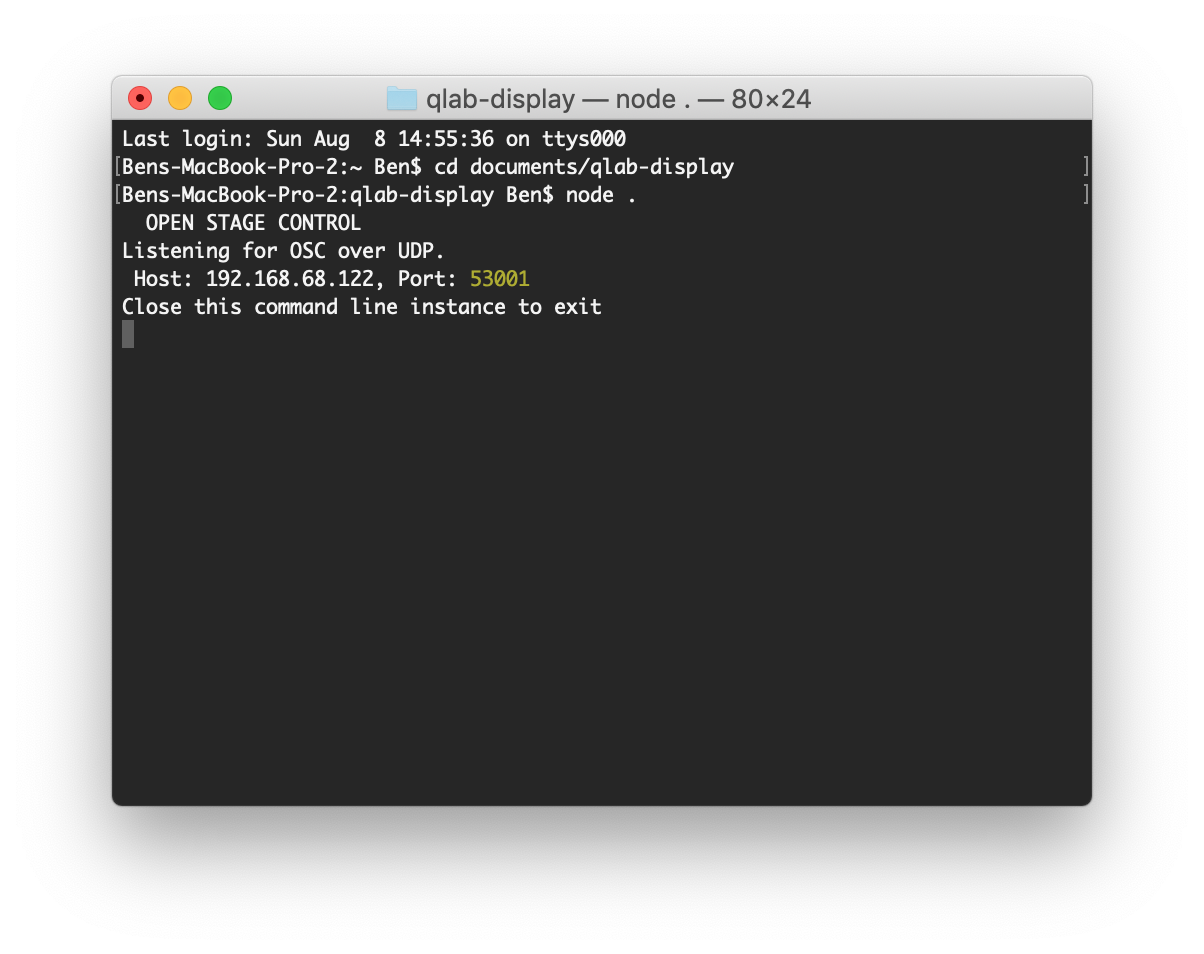
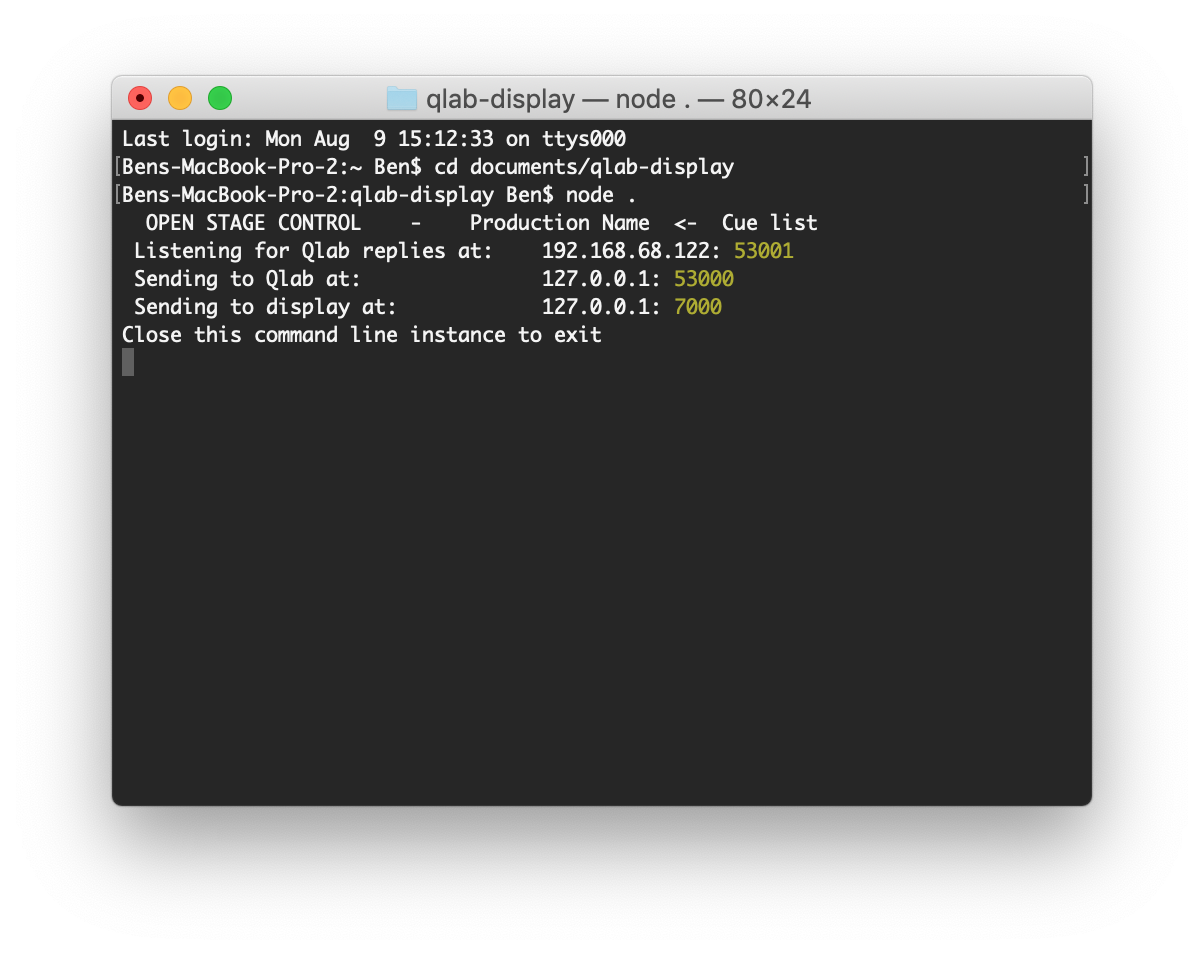
Added config file for setting variables

Changed region(s): [[0.0922, 0.2128, 0.6761, 0.3952], [0.338, 0.1216, 0.3995, 0.152], [0.2151, 0.1216, 0.2458, 0.152]]

diff --git a/qlab-mon-open-stage-control.js b/qlab-mon-open-stage-control.js
@@ -2,10 +2,13 @@
  * @description Qlab Cue list Monitoring with Open Stage Control
  * @author Ben Smith
  * @link bensmithsound.uk
- * @version 1.1.0
+ * @version 1.2.0
  * @about Monitoring the next cue in a specific cue list using Open Stage Control
  * 
  * @changelog
+ *   v1.2.0  - implement config.json to set variables
+ *           - update commenting to make script easier to read
+ *           - update logging to give more useful info
  *   v1.1.0  - add a heartbeat display in Open Sound Control to show a successful link to Qlab
  *   v1.0.0  - add ability to set variables from command line
  *           - streamline interpretation of Qlab replies
@@ -17,26 +20,28 @@ const osc = require("osc"); // for working with OSC messages
 const yargs = require("yargs"); // for optional setting variables by command line
 
 
-/*************
- * VARIABLES *
- *************/
+/*******************************************
+ ***************  VARIABLES  ***************
+ *******************************************/
 
-var cueListNumber = "CLICK";
-var qlabIP = "127.0.0.1";
-var qlabPort = 53000;
-var openStageControlIP = "127.0.0.1";
-var openStageControlPort = 7000;
-const openStageControlQNum = "/next/number";
-const openStageControlQName = "/next/name";
-const openStageControlHeartbeat = "/qlab/connected";
+const config = require('./config.json');
+
+var cueListNumber = config.cuelistnumber;
+var qlabIP = config.qlab.ip;
+var qlabPort = config.qlab.port;
+var openStageControlIP = config.display.ip;
+var openStageControlPort = config.display.openstagecontrol.port;
+const openStageControlQNum = config.display.openstagecontrol.number;
+const openStageControlQName = config.display.openstagecontrol.name;
+const openStageControlHeartbeat = config.display.openstagecontrol.heartbeat;
 
 var cueNumber = "";
 var cueName = "";
 
 
-/**********************************************
- * SET VARIABLES FROM COMMAND LINE (OPTIONAL) *
- **********************************************/
+/******************************************************************
+ **********  SET VARIABLES FROM COMMAND LINE (OPTIONAL)  **********
+ ******************************************************************/
 
 const argv = yargs
   .option('cuelist', {
@@ -89,9 +94,9 @@ if (argv.displayport) {
 };
 
 
-/*************
- * FUNCTIONS *
- *************/
+/*******************************************
+ ***************  FUNCTIONS  ***************
+ *******************************************/
 
 // Send an OSC message to Qlab
 function sendToQlab (theAddress, theArgs = "") {
@@ -140,9 +145,9 @@ function getCueListPlayhead () {
 };
 
 
-/****************
- * MAIN ROUTINE *
- ****************/
+/**********************************************
+ ***************  MAIN ROUTINE  ***************
+ **********************************************/
 
 var getIPAddresses = function () {
   var os = require("os"),
@@ -183,10 +188,12 @@ udpPort.on("ready", function () {
 qlabReplies.on("ready", function() {
   var ipAddresses = getIPAddresses();
 
-  console.log("  OPEN STAGE CONTROL\nListening for OSC over UDP.");
+  console.log("  OPEN STAGE CONTROL    -    " + config.production.name + "  <-  " + config.production.cuelistname);
   ipAddresses.forEach(function (address) {
-    console.log(" Host:", address + ", Port:", qlabReplies.options.localPort);
+    console.log(" Listening for Qlab replies at:    " + address + ":", qlabReplies.options.localPort);
   });
+  console.log(" Sending to Qlab at:               " + qlabIP + ":", qlabPort);
+  console.log(" Sending to display at:            " + config.display.ip + ":", config.display.openstagecontrol.port);
   console.log("Close this command line instance to exit")
 });
 

diff --git a/qlab-mon-streamdeck.js b/qlab-mon-streamdeck.js
@@ -2,10 +2,13 @@
  * @description Qlab Cue list Monitoring with Streamdeck
  * @author Ben Smith
  * @link bensmithsound.uk
- * @version 1.0.0
+ * @version 1.1.0
  * @about Monitoring the next cue in a specific cue list on a Streamdeck
  * 
  * @changelog
+ *   v1.1.0  - implement config.json to set variables
+ *           - update commenting to make script easier to read
+ *           - update logging to give more useful info
  *   v1.0.0  - add ability to set variables from command line
  *           - streamline interpretation of Qlab replies
  *           - remove logging of replies
@@ -16,26 +19,28 @@ const osc = require("osc"); // for working with OSC messages
 const yargs = require("yargs"); // for optional setting variables by command line
 
 
-/*************
- * VARIABLES *
- *************/
+/*******************************************
+ ***************  VARIABLES  ***************
+ *******************************************/
 
-var cueListNumber = "CLICK";
-var qlabIP = "127.0.0.1";
-var qlabPort = 53000;
-var companionIP = "127.0.0.1";
-var companionPort = 12321;
-var companionPage = 19;
-var companionQNumButton = 15;
-var companionQNameButton = 16;
+const config = require('./config.json');
+
+var cueListNumber = config.cuelistnumber;
+var qlabIP = config.qlab.ip;
+var qlabPort = config.qlab.port;
+var companionIP = config.display.ip;
+var companionPort = config.display.streamdeck.port;
+var companionPage = config.display.streamdeck.page;
+var companionQNumButton = config.display.streamdeck.numberbutton;
+var companionQNameButton = config.display.streamdeck.namebutton;
 
 var cueNumber = "";
 var cueName = "";
 
 
-/**********************************************
- * SET VARIABLES FROM COMMAND LINE (OPTIONAL) *
- **********************************************/
+/******************************************************************
+ **********  SET VARIABLES FROM COMMAND LINE (OPTIONAL)  **********
+ ******************************************************************/
 
  const argv = yargs
  .option('cuelist', {
@@ -115,9 +120,9 @@ if (argv.cuenamebutton) {
 };
 
 
-/*************
- * FUNCTIONS *
- *************/
+/*******************************************
+ ***************  FUNCTIONS  ***************
+ *******************************************/
 
 // Send an OSC message to Qlab
 function sendToQlab (theAddress, theArgs = "") {
@@ -158,9 +163,10 @@ function getCueListPlayhead () {
   setTimeout(getCueListPlayhead, 300);
 };
 
-/****************
- * MAIN ROUTINE *
- ****************/
+
+/**********************************************
+ ***************  MAIN ROUTINE  ***************
+ **********************************************/
 
 var getIPAddresses = function () {
   var os = require("os"),
@@ -201,10 +207,12 @@ udpPort.on("ready", function () {
 qlabReplies.on("ready", function() {
   var ipAddresses = getIPAddresses();
 
-  console.log("  STREAMDECK\nListening for OSC over UDP.");
+  console.log("  STREAMDECK    -    " + config.production.name + "  <-  " + config.production.cuelistname);
   ipAddresses.forEach(function (address) {
-    console.log(" Host:", address + ", Port:", qlabReplies.options.localPort);
+    console.log(" Listening for Qlab replies at:    " + address + ":", qlabReplies.options.localPort);
   });
+  console.log(" Sending to Qlab at:               " + qlabIP + ":", qlabPort);
+  console.log(" Sending to display at:            " + config.display.ip + ":", config.display.streamdeck.port);
   console.log("Close this command line instance to exit")
 });
 

diff --git a/qlab-mon.js b/qlab-mon.js
@@ -2,10 +2,13 @@
  * @description Qlab Cue list Monitoring
  * @author Ben Smith
  * @link bensmithsound.uk
- * @version 1.0.0
+ * @version 1.1.0
  * @about Monitoring the next cue in a specific cue list in terminal
  * 
  * @changelog
+ *   v1.1.0  - implement config.json to set variables
+ *           - update commenting to make script easier to read
+ *           - update logging to give more useful info
  *   v1.0.0  - add ability to set variables from command line
  *           - streamline interpretation of Qlab replies
  */
@@ -15,21 +18,23 @@ const osc = require("osc");
 const yargs = require("yargs"); // for optional setting variables by command line
 
 
-/*************
- * VARIABLES *
- *************/
+/*******************************************
+ ***************  VARIABLES  ***************
+ *******************************************/
 
-var cueListNumber = "CLICK";
-var qlabIP = "127.0.0.1";
-var qlabPort = 53000;
+const config = require('./config.json');
+
+var cueListNumber = config.cuelistnumber;
+var qlabIP = config.qlab.ip;
+var qlabPort = config.qlab.port;
 
 var cueNumber = "";
 var cueName = "";
 
 
-/**********************************************
- * SET VARIABLES FROM COMMAND LINE (OPTIONAL) *
- **********************************************/
+/******************************************************************
+ **********  SET VARIABLES FROM COMMAND LINE (OPTIONAL)  **********
+ ******************************************************************/
 
  const argv = yargs
  .option('cuelist', {
@@ -64,9 +69,9 @@ if (argv.qlabport) {
 };
 
 
-/*************
- * FUNCTIONS *
- *************/
+/*******************************************
+ ***************  FUNCTIONS  ***************
+ *******************************************/
 
 // Send an OSC message to Qlab
 function sendToQlab (theAddress, theArgs = "") {
@@ -91,9 +96,9 @@ function getCueListPlayhead () {
   setTimeout(getCueListPlayhead, 300);
 };
 
-/****************
- * MAIN ROUTINE *
- ****************/
+/**********************************************
+ ***************  MAIN ROUTINE  ***************
+ **********************************************/
 
  var getIPAddresses = function () {
   var os = require("os"),
@@ -134,10 +139,11 @@ udpPort.on("ready", function () {
 qlabReplies.on("ready", function() {
   var ipAddresses = getIPAddresses();
 
-  console.log("  COMMAND LINE\nListening for OSC over UDP.");
+  console.log("  COMMAND LINE    -    " + config.production.name + "  <-  " + config.production.cuelistname);
   ipAddresses.forEach(function (address) {
-    console.log(" Host:", address + ", Port:", qlabReplies.options.localPort);
+    console.log(" Listening for Qlab replies at:    " + address + ":", qlabReplies.options.localPort);
   });
+  console.log(" Sending to Qlab at:               " + qlabIP + ":", qlabPort);
   console.log("Close this command line instance to exit")
 });
 

diff --git a/README.md b/README.md
@@ -11,23 +11,37 @@ This script has several versions for displaying the result:
 
 1. Clone this repository, or download and expand the zip.
 2. Ensure you have installed [node.js](https://nodejs.org/en/).
-3. In terminal, set the repository folder as the directory, e.g: `cd Documents/qlab-display`
-4. Open the script you wish to use in a text or code editor, and enter the correct values in the "Variables" sections. This includes:
-   - `cueListNumber`: the cue number of the cue list to monitor
-   - `qlabIP`: the IP address of the Qlab machine. If this is localhost, use "127.0.0.1"
-   - `qlabPort`: the port Qlab is listening for OSC commands on, by default 53000
-   - `companionIP` or `openStageControlIP`: the IP address of the computer running either Bitfocus Companion (for streamdeck) or Open Stage Control.
-   - `companionPort` or `openStageControlPort`: the port which the above devices are listening for OSC on.
-   - `companionPage`: the page on your Streamdeck that you wish to see the indicator.
-   - `companionQNumButton` and `companionQNameButton`: the number of the buttons on that page which you would like to display the cue number and the cue name.
-   - `openStageControlQNum` and `openStageControlQName`: the command to send to update elements with the cue number and cue name. The default works with the open-stage-control-template.json file included in this repository.
-5. You can also set most of these variables from the command line, which could be particularly useful for cue list numbers and OSC ports.
+3. In terminal, set the repository folder as the directory, e.g: `cd Documents/qlab-display`.
+4. In terminal, enter `npm install` to install all dependencies of the project.
+5. To set variables to allow the scripts to work on your system, open config.json in a text or code editor. Here, you can set:
+   - Production information:
+      - Production name
+      - Cue list name
+      - Config version (in case you make changes to your network)
+   - Cue list number
+   - Qlab information:
+      - IP address
+      - Port to send to
+      - Port replies come from
+   - Display information:
+      - IP address
+      - For Open Stage Control:
+         - Port
+         - OSC address for displaying cue number
+         - OSC address for displaying cue name
+         - OSC address for a heartbeat indicator
+      - For Streamdeck:
+         - Port
+         - Companion page number
+         - Companion button number for Q Number
+         - Companion button number for Q Name
+6. You can also set most of these variables from the command line, which could be particularly useful for cue list numbers and OSC ports.
 
 ## Operation
 
 Choose which version of the script you wish to use: in `package.json`, change the filename under "main" to be that script. By default, I've set this to `qlab-mon-open-stage-control.js`.
 
-In terminal, enter: `node .`. Leave this terminal window open, and it will constantly send Qlab a message every 0.5s (by default) to request the playhead position on the cue list specified in "Variables".
+In terminal, enter: `node .`. Leave this terminal window open, and it will constantly send Qlab a message every 0.5s (by default) to request the playhead position on the cue list specified.
 
 ### Command Line Variables
 
